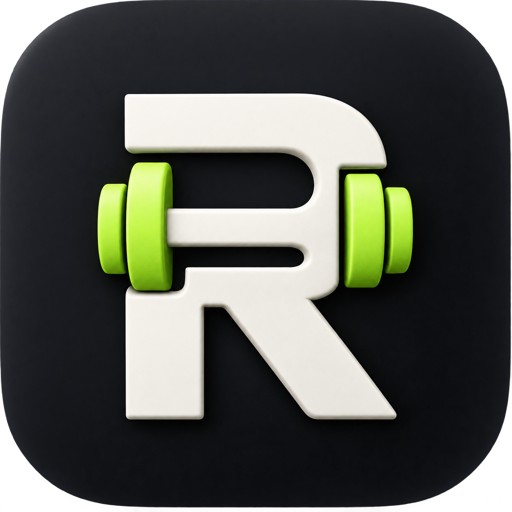
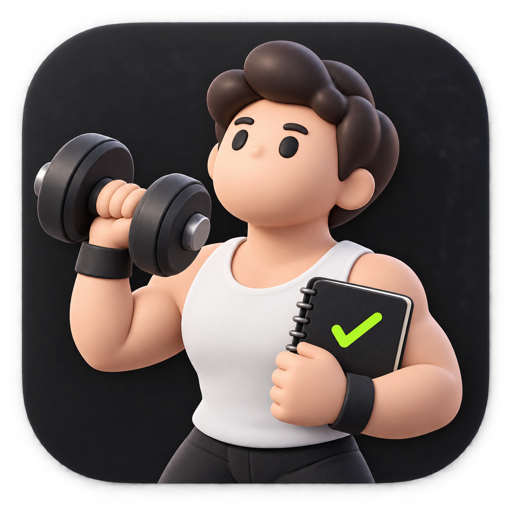
Match Repwise branding to 3D iconset

diff --git a/design-qa.md b/design-qa.md
@@ -91,6 +91,12 @@ The implementation preserves the source hierarchy: compact session title/progres
 - Fix: rebuilt Settings rows on a stable label/control grid, kept all five rest durations on one line, gave accent choices responsive 4-column/2-column layouts, split device management into focused Install and Backup cards, replaced visible native file chrome with an accessible Import backup control, and moved technical sync details into a disclosure. Replaced the legacy gym-room logo and favicon set with a small-size-safe Repwise R/barbell mark.
 - Post-fix evidence: at 1440 × 900 the Training controls align to one consistent right-hand column and Data & device reads as two balanced task cards; at 375 × 667 every control stacks without horizontal overflow and the two device cards become a single column. The new identity remains clear at 40px in the app header.
 
+### Iteration 11
+
+- [P2] The geometric R/barbell mark felt disconnected from the established 3D exercise illustration system.
+- Fix: replaced it with a compact 3D Repwise mascot holding a dumbbell and checked workout notebook, rendered in the same toy-like materials, proportions, lighting, and dark-equipment palette as the exercise iconset. Regenerated all favicon, Apple touch, and PWA icon sizes from the same master.
+- Post-fix evidence: the refreshed desktop header shows the new mascot clearly at 40px next to Repwise and its character, clothing, weights, and lighting visibly match the squat artwork used on the Today screen.
+
 ## Primary interactions tested
 
 - Changed workout date to a scheduled training day.
